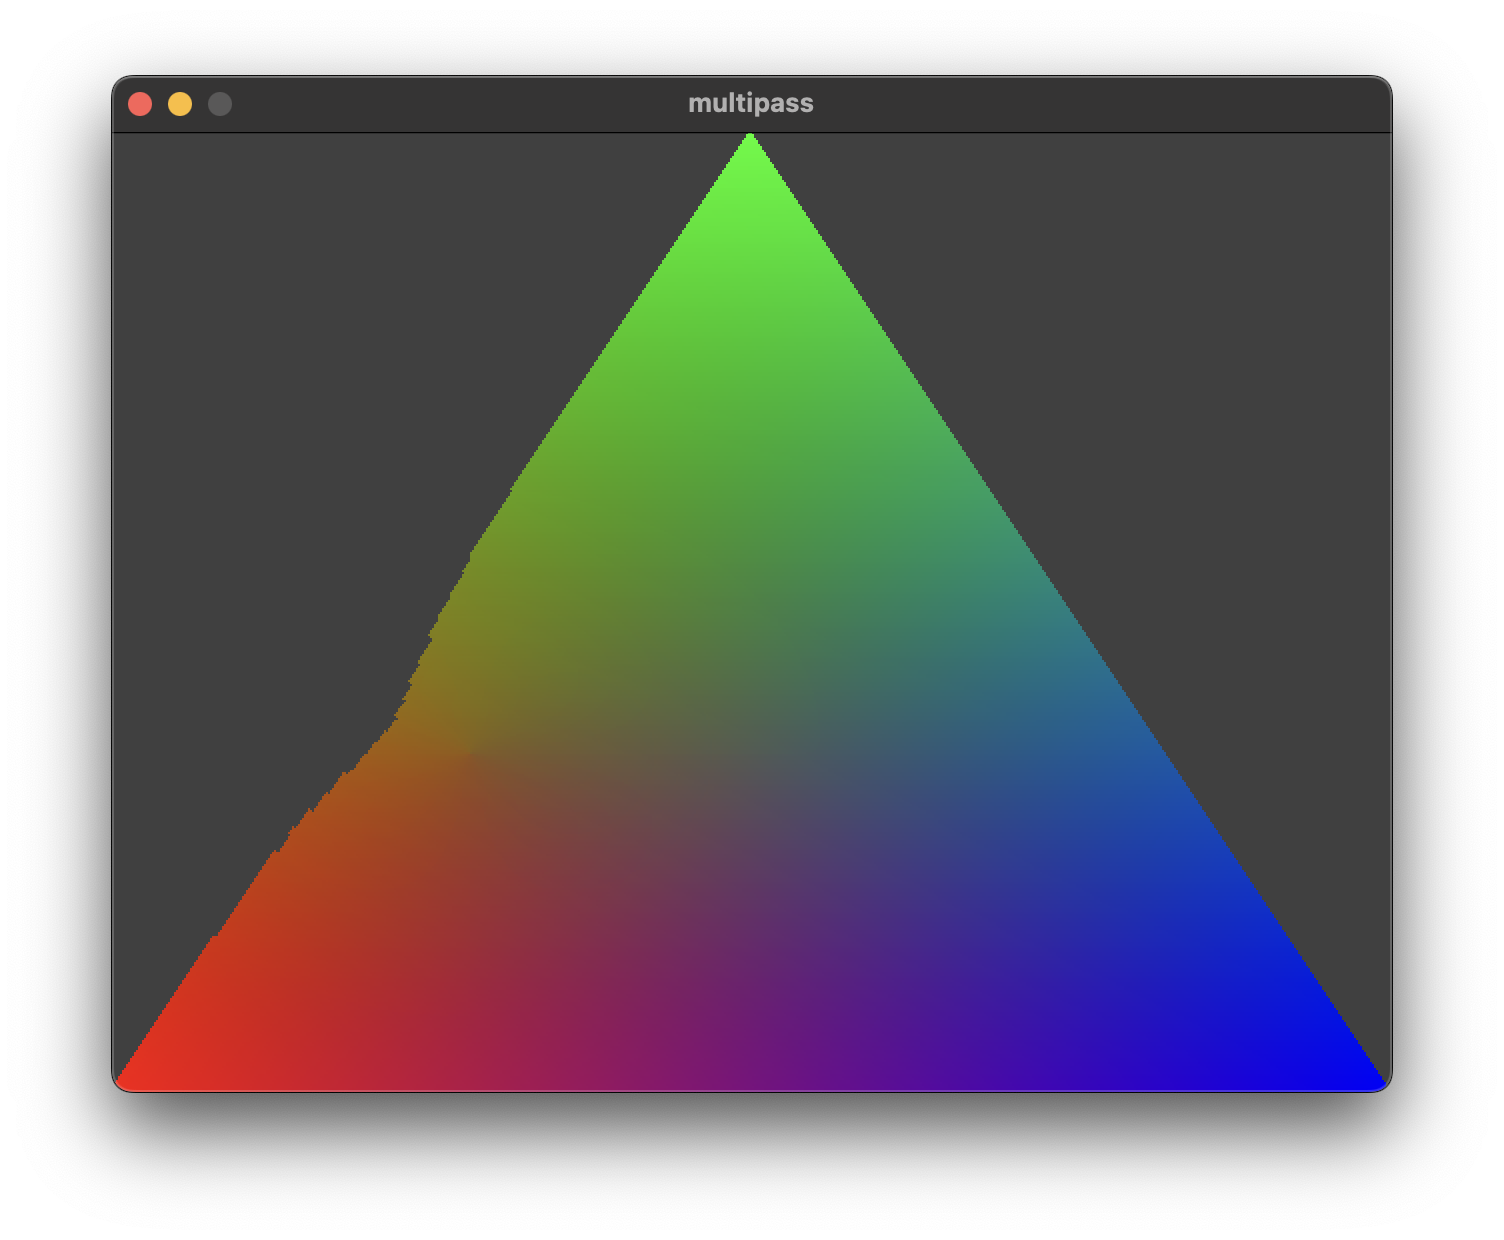
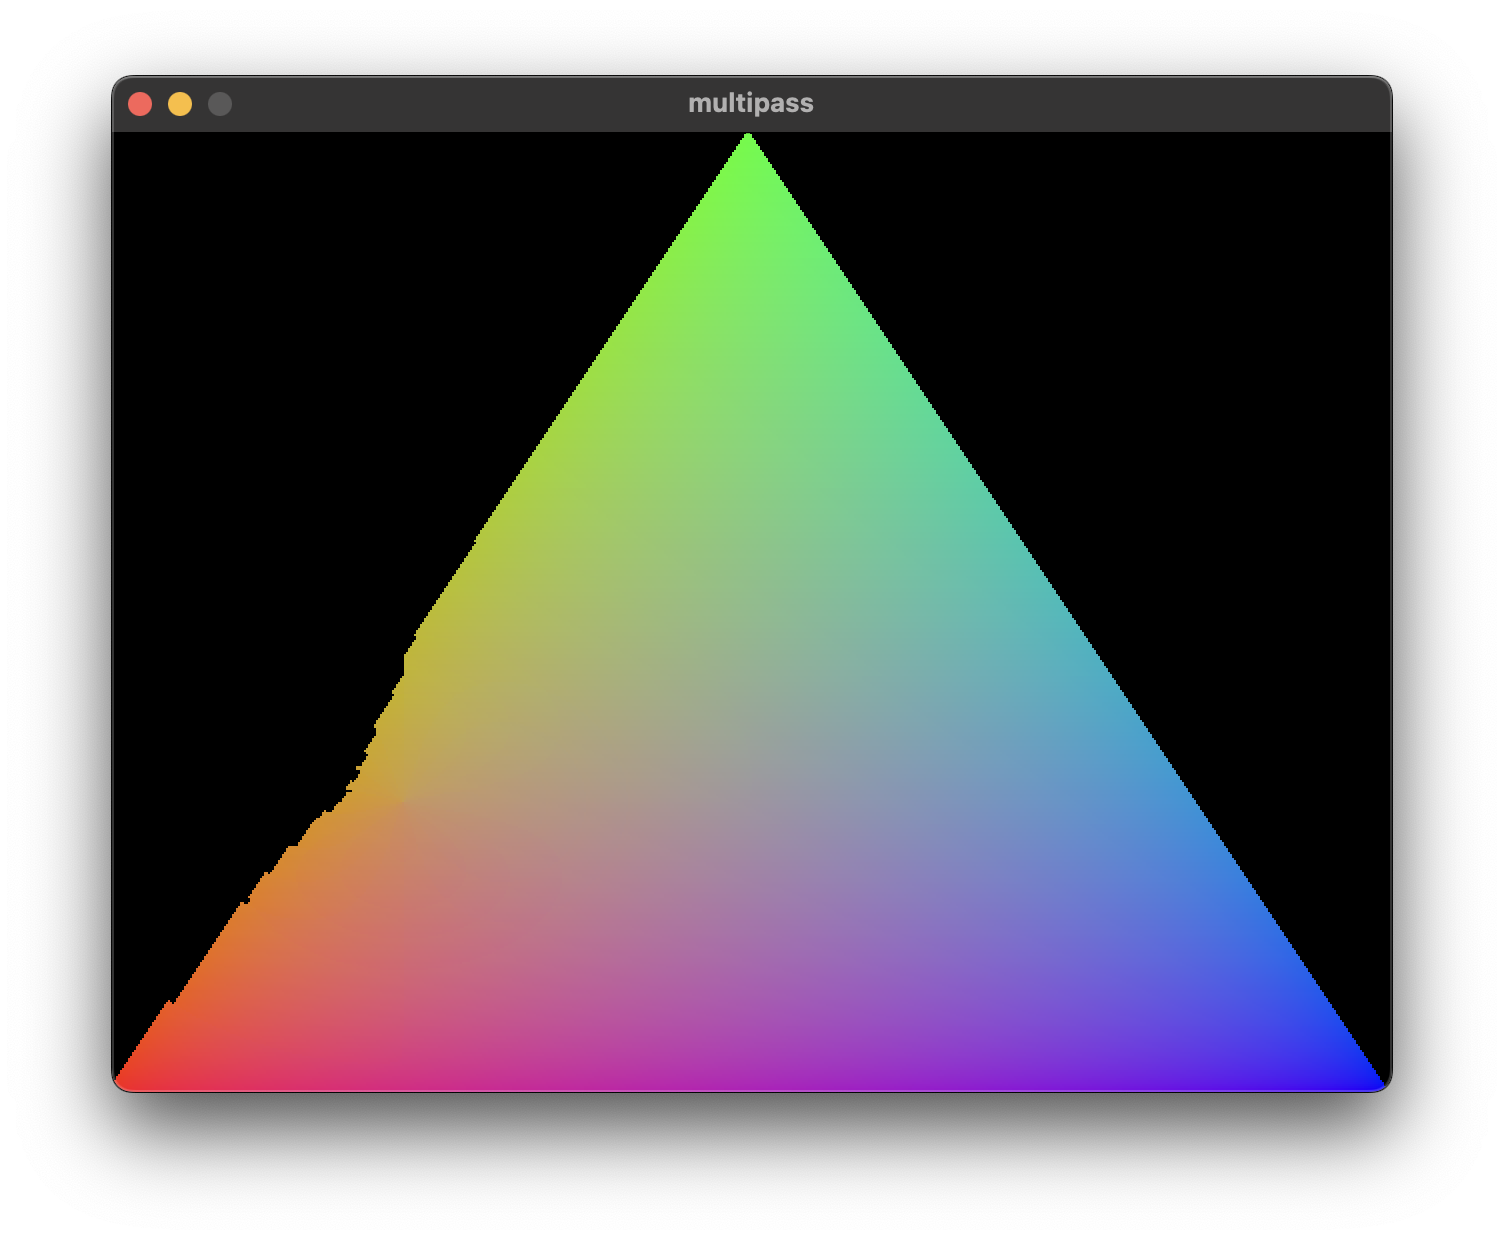
fix: フォーマットを適切に選択

diff --git a/src/graphics/framebuffer.cpp b/src/graphics/framebuffer.cpp
@@ -5,13 +5,13 @@
 
 namespace graphics {
 
-vk::Format convertFormat(const config::Format &format) {
+vk::Format convertFormat(const config::Format &format, const vk::Format &rtFormat) {
 	return format == config::Format::RenderTarget
-		? platformRenderTargetPixelFormat()
+		? rtFormat
 		: format == config::Format::DepthBuffer
 		? vk::Format::eD32Sfloat
 		: format == config::Format::ShareColorAttachment
-		? platformRenderTargetPixelFormat()
+		? rtFormat
 		: throw;
 }
 
@@ -38,18 +38,19 @@ vk::ImageAspectFlags convertAspect(const config::Format &format) {
 Attachment createAttachment(
 	const vk::PhysicalDeviceMemoryProperties &memoryProps,
 	const vk::Device &device,
-	const vk::Extent3D &swapchainImageExtent,
+	const Swapchain &swapchain,
 	const vk::Image &swapchainImage,
 	config::Format format
 ) {
 	const auto isRenderTarget = format == config::Format::RenderTarget;
+	const auto swapchainImageExtent = vk::Extent3D(swapchain.getExtent().width, swapchain.getExtent().height, 1);
 
 	// イメージ作成
 	vk::Image image = swapchainImage;
 	if (!isRenderTarget) {
 		const auto ci = vk::ImageCreateInfo()
 			.setImageType(vk::ImageType::e2D)
-			.setFormat(convertFormat(format))
+			.setFormat(convertFormat(format, swapchain.getFormat()))
 			.setExtent(swapchainImageExtent)
 			.setMipLevels(1)
 			.setArrayLayers(1)
@@ -77,7 +78,7 @@ Attachment createAttachment(
 		vk::ImageViewCreateFlags(),
 		image,
 		vk::ImageViewType::e2D,
-		convertFormat(format),
+		convertFormat(format, swapchain.getFormat()),
 		vk::ComponentMapping(
 			vk::ComponentSwizzle::eR,
 			vk::ComponentSwizzle::eG,
@@ -96,14 +97,13 @@ std::vector<Attachment> createAttachments(
 	const config::Config &config,
 	const vk::PhysicalDeviceMemoryProperties &memoryProps,
 	const vk::Device &device,
-	const vk::Image &swapchainImage,
-	const vk::Extent2D &swapchainImageExtent
+	const Swapchain &swapchain,
+	const vk::Image &swapchainImage
 ) {
-	const auto extent = vk::Extent3D(swapchainImageExtent.width, swapchainImageExtent.height, 1);
 	std::vector<Attachment> attachments;
 	attachments.reserve(config.attachments.size());
 	for (const auto &n: config.attachments) {
-		attachments.push_back(createAttachment(memoryProps, device, extent, swapchainImage, n.format));
+		attachments.push_back(createAttachment(memoryProps, device, swapchain, swapchainImage, n.format));
 	}
 	return attachments;
 }
@@ -124,9 +124,11 @@ std::vector<vk::ClearValue> collectClearValues(const config::Config &config) {
 vk::Framebuffer createFramebuffer(
 	const vk::Device &device,
 	const vk::RenderPass &renderPass,
-	const vk::Extent2D &swapchainImageExtent,
+	const Swapchain &swapchain,
 	const std::vector<Attachment> &attachments
 ) {
+	const auto swapchainImageExtent = vk::Extent3D(swapchain.getExtent().width, swapchain.getExtent().height, 1);
+
 	std::vector<vk::ImageView> as;
 	as.reserve(attachments.size());
 	for (const auto &n: attachments) {
@@ -146,13 +148,13 @@ Framebuffer::Framebuffer(
 	const config::Config &config,
 	const vk::PhysicalDeviceMemoryProperties &memoryProps,
 	const vk::Device &device,
-	const vk::RenderPass &renderPass,
+	const Swapchain &swapchain,
 	const vk::Image &swapchainImage,
-	const vk::Extent2D &swapchainImageExtent
+	const vk::RenderPass &renderPass
 ) :
-	_attachments(createAttachments(config, memoryProps, device, swapchainImage, swapchainImageExtent)),
+	_attachments(createAttachments(config, memoryProps, device, swapchain, swapchainImage)),
 	_clearValues(collectClearValues(config)),
-	_framebuffer(createFramebuffer(device, renderPass, swapchainImageExtent, _attachments))
+	_framebuffer(createFramebuffer(device, renderPass, swapchain, _attachments))
 {}
 
 } // namespace graphics

diff --git a/src/graphics/swapchain.cpp b/src/graphics/swapchain.cpp
@@ -34,19 +34,39 @@ vk::SurfaceKHR createSurface(const Window &window, const vk::Instance &instance)
 	}
 }
 
+vk::Format getFormatFrom(const vk::PhysicalDevice &physicalDevice, const vk::SurfaceKHR &surface) {
+	const std::vector<vk::Format> favorites{
+		vk::Format::eB8G8R8A8Srgb,
+		vk::Format::eR8G8B8A8Srgb,
+		vk::Format::eB8G8R8A8Unorm,
+		vk::Format::eR8G8B8A8Unorm,
+	};
+	const auto formats = physicalDevice.getSurfaceFormatsKHR(surface);
+	for (const auto &n: favorites) {
+		const auto ok = std::any_of(formats.cbegin(), formats.cend(), [&n](const auto &m) {
+			return m.format == n && m.colorSpace == vk::ColorSpaceKHR::eSrgbNonlinear;
+		});
+		if (ok) {
+			return n;
+		}
+	}
+	throw "the surface format and color space are invalid.";
+}
+
 vk::SwapchainKHR createSwapchain(
 	const vk::PhysicalDevice &physicalDevice,
 	const vk::Device &device,
 	const vk::SurfaceKHR &surface,
 	const vk::Extent2D &extent,
+	const vk::Format &format,
 	const vk::SwapchainKHR &oldSwapchain = nullptr
 ) {
 	const auto caps = physicalDevice.getSurfaceCapabilitiesKHR(surface);
 	const auto ci = vk::SwapchainCreateInfoKHR()
 		.setSurface(surface)
 		.setMinImageCount(getImageCount(caps))
-		.setImageFormat(platformRenderTargetPixelFormat())
-		.setImageColorSpace(platformRenderTargetColorSpace())
+		.setImageFormat(format)
+		.setImageColorSpace(vk::ColorSpaceKHR::eSrgbNonlinear)
 		.setImageExtent(extent)
 		.setImageArrayLayers(1)
 		.setImageUsage(vk::ImageUsageFlagBits::eColorAttachment)
@@ -87,23 +107,16 @@ Swapchain::Swapchain(
 	_window(createWindow(title, width, height, fullscreen)),
 	_surface(createSurface(_window, instance)),
 	_extent(physicalDevice.getSurfaceCapabilitiesKHR(_surface).currentExtent),
-	_swapchain(createSwapchain(physicalDevice, device, _surface, _extent)),
+	_format(getFormatFrom(physicalDevice, _surface)),
+	_swapchain(createSwapchain(physicalDevice, device, _surface, _extent, _format)),
 	_images(getImagesFrom(physicalDevice, device, _surface, _swapchain))
-{
-	// TODO: 決め打ちしない方が良いかもしれない。
-	const auto formats = physicalDevice.getSurfaceFormatsKHR(_surface);
-	const auto ok = std::any_of(formats.cbegin(), formats.cend(), [](const auto &n) {
-		return n.format == platformRenderTargetPixelFormat() && n.colorSpace == platformRenderTargetColorSpace();
-	});
-	if (!ok) {
-		throw "the surface color space is invalid.";
-	}
-}
+{}
 
 void Swapchain::recreateSwapchain(const vk::PhysicalDevice &physicalDevice, const vk::Device &device) {
 	const auto old = _swapchain;
 	_extent = physicalDevice.getSurfaceCapabilitiesKHR(_surface).currentExtent;
-	_swapchain = createSwapchain(physicalDevice, device, _surface, _extent, old);
+	_format = getFormatFrom(physicalDevice, _surface);
+	_swapchain = createSwapchain(physicalDevice, device, _surface, _extent, _format, old);
 	_images = getImagesFrom(physicalDevice, device, _surface, _swapchain);
 	device.destroySwapchainKHR(old);
 }

diff --git a/src/graphics/renderer.cpp b/src/graphics/renderer.cpp
@@ -4,18 +4,18 @@
 
 namespace graphics {
 
-vk::RenderPass createRenderPass(const config::Config &config, const vk::Device &device) {
+vk::RenderPass createRenderPass(const config::Config &config, const vk::Device &device, const vk::Format &rtFormat) {
 	// アタッチメント
 	std::vector<vk::AttachmentDescription> attachments;
 	for (const auto &n: config.attachments) {
 		attachments.emplace_back(
 			vk::AttachmentDescriptionFlags(),
 			n.format == config::Format::RenderTarget
-				? platformRenderTargetPixelFormat()
+				? rtFormat
 				: n.format == config::Format::DepthBuffer
 				? vk::Format::eD32Sfloat
 				: n.format == config::Format::ShareColorAttachment
-				? platformRenderTargetPixelFormat()
+				? rtFormat
 				: throw,
 			vk::SampleCountFlagBits::e1,
 			vk::AttachmentLoadOp::eClear,
@@ -132,9 +132,9 @@ std::vector<Framebuffer> createFramebuffers(
 			config,
 			physicalDevice.getMemoryProperties(),
 			device,
-			renderPass,
+			swapchain,
 			n,
-			swapchain.getExtent()
+			renderPass
 		);
 	}
 	return framebuffers;
@@ -156,7 +156,7 @@ Renderer::Renderer(
 		physicalDevice,
 		device
 	),
-	_renderPass(createRenderPass(config, device)),
+	_renderPass(createRenderPass(config, device, _swapchain.getFormat())),
 	_commandBuffer(createCommandBuffer(device, commandPool)),
 	_semaphoreForImageEnabled(device.createSemaphore({})),
 	_semaphoreForRenderFinisheds(createSemaphores(device, _swapchain.getImages().size())),

diff --git a/src/graphics/platform.hpp b/src/graphics/platform.hpp
@@ -16,14 +16,6 @@ constexpr std::array<const char *const, 1> platformInstanceExtensions() {
 constexpr std::array<const char *const, 1> platformDeviceExtensions() {
 	return {"VK_KHR_portability_subset"};
 }
-
-constexpr vk::Format platformRenderTargetPixelFormat() {
-	return vk::Format::eB8G8R8A8Unorm;
-}
-
-constexpr vk::ColorSpaceKHR platformRenderTargetColorSpace() {
-	return vk::ColorSpaceKHR::eSrgbNonlinear;
-}
 #else
 constexpr vk::InstanceCreateFlags platformInstanceCreateFlags() {
 	return vk::InstanceCreateFlags();
@@ -35,14 +27,6 @@ constexpr std::array<const char *const, 0> platformInstanceExtensions() {
 
 constexpr std::array<const char *const, 0> platformDeviceExtensions() {
 	return {};
-}
-
-constexpr vk::Format platformRenderTargetPixelFormat() {
-	return vk::Format::eR8G8B8A8Srgb;
-}
-
-constexpr vk::ColorSpaceKHR platformRenderTargetColorSpace() {
-	return vk::ColorSpaceKHR::eSrgbNonlinear;
 }
 #endif
 

diff --git a/src/graphics/image.cpp b/src/graphics/image.cpp
@@ -12,7 +12,7 @@ namespace graphics {
 vk::Image createImage(const vk::Device &device, uint32_t width, uint32_t height) {
 	const auto ci = vk::ImageCreateInfo()
 		.setImageType(vk::ImageType::e2D)
-		.setFormat(vk::Format::eR8G8B8A8Unorm)
+		.setFormat(vk::Format::eR8G8B8A8Srgb)
 		.setExtent(vk::Extent3D(width, height, 1))
 		.setMipLevels(1)
 		.setArrayLayers(1)
@@ -28,7 +28,7 @@ vk::ImageView createImageView(const vk::Device &device, const vk::Image &image) 
 		vk::ImageViewCreateFlags(),
 		image,
 		vk::ImageViewType::e2D,
-		vk::Format::eR8G8B8A8Unorm,
+		vk::Format::eR8G8B8A8Srgb,
 		vk::ComponentMapping(
 			vk::ComponentSwizzle::eR,
 			vk::ComponentSwizzle::eG,

diff --git a/src/graphics/framebuffer.hpp b/src/graphics/framebuffer.hpp
@@ -1,6 +1,7 @@
 #pragma once
 
 #include "../config/config.hpp"
+#include "swapchain.hpp"
 
 #include <vulkan/vulkan.hpp>
 
@@ -39,9 +40,9 @@ public:
 		const config::Config &config,
 		const vk::PhysicalDeviceMemoryProperties &memoryProps,
 		const vk::Device &device,
-		const vk::RenderPass &renderPass,
+		const Swapchain &swapchain,
 		const vk::Image &swapchainImage,
-		const vk::Extent2D &swapchainImageExtent
+		const vk::RenderPass &renderPass
 	);
 
 	void destroy(const vk::Device &device) const noexcept {

diff --git a/src/graphics/swapchain.hpp b/src/graphics/swapchain.hpp
@@ -15,6 +15,7 @@ private:
 	const Window _window;
 	vk::SurfaceKHR _surface;
 	vk::Extent2D _extent;
+	vk::Format _format;
 	vk::SwapchainKHR _swapchain;
 	std::vector<vk::Image> _images;
 
@@ -42,6 +43,10 @@ public:
 
 	const vk::Extent2D &getExtent() const noexcept {
 		return _extent;
+	}
+
+	const vk::Format &getFormat() const noexcept {
+		return _format;
 	}
 
 	const std::vector<vk::Image> &getImages() const noexcept {
